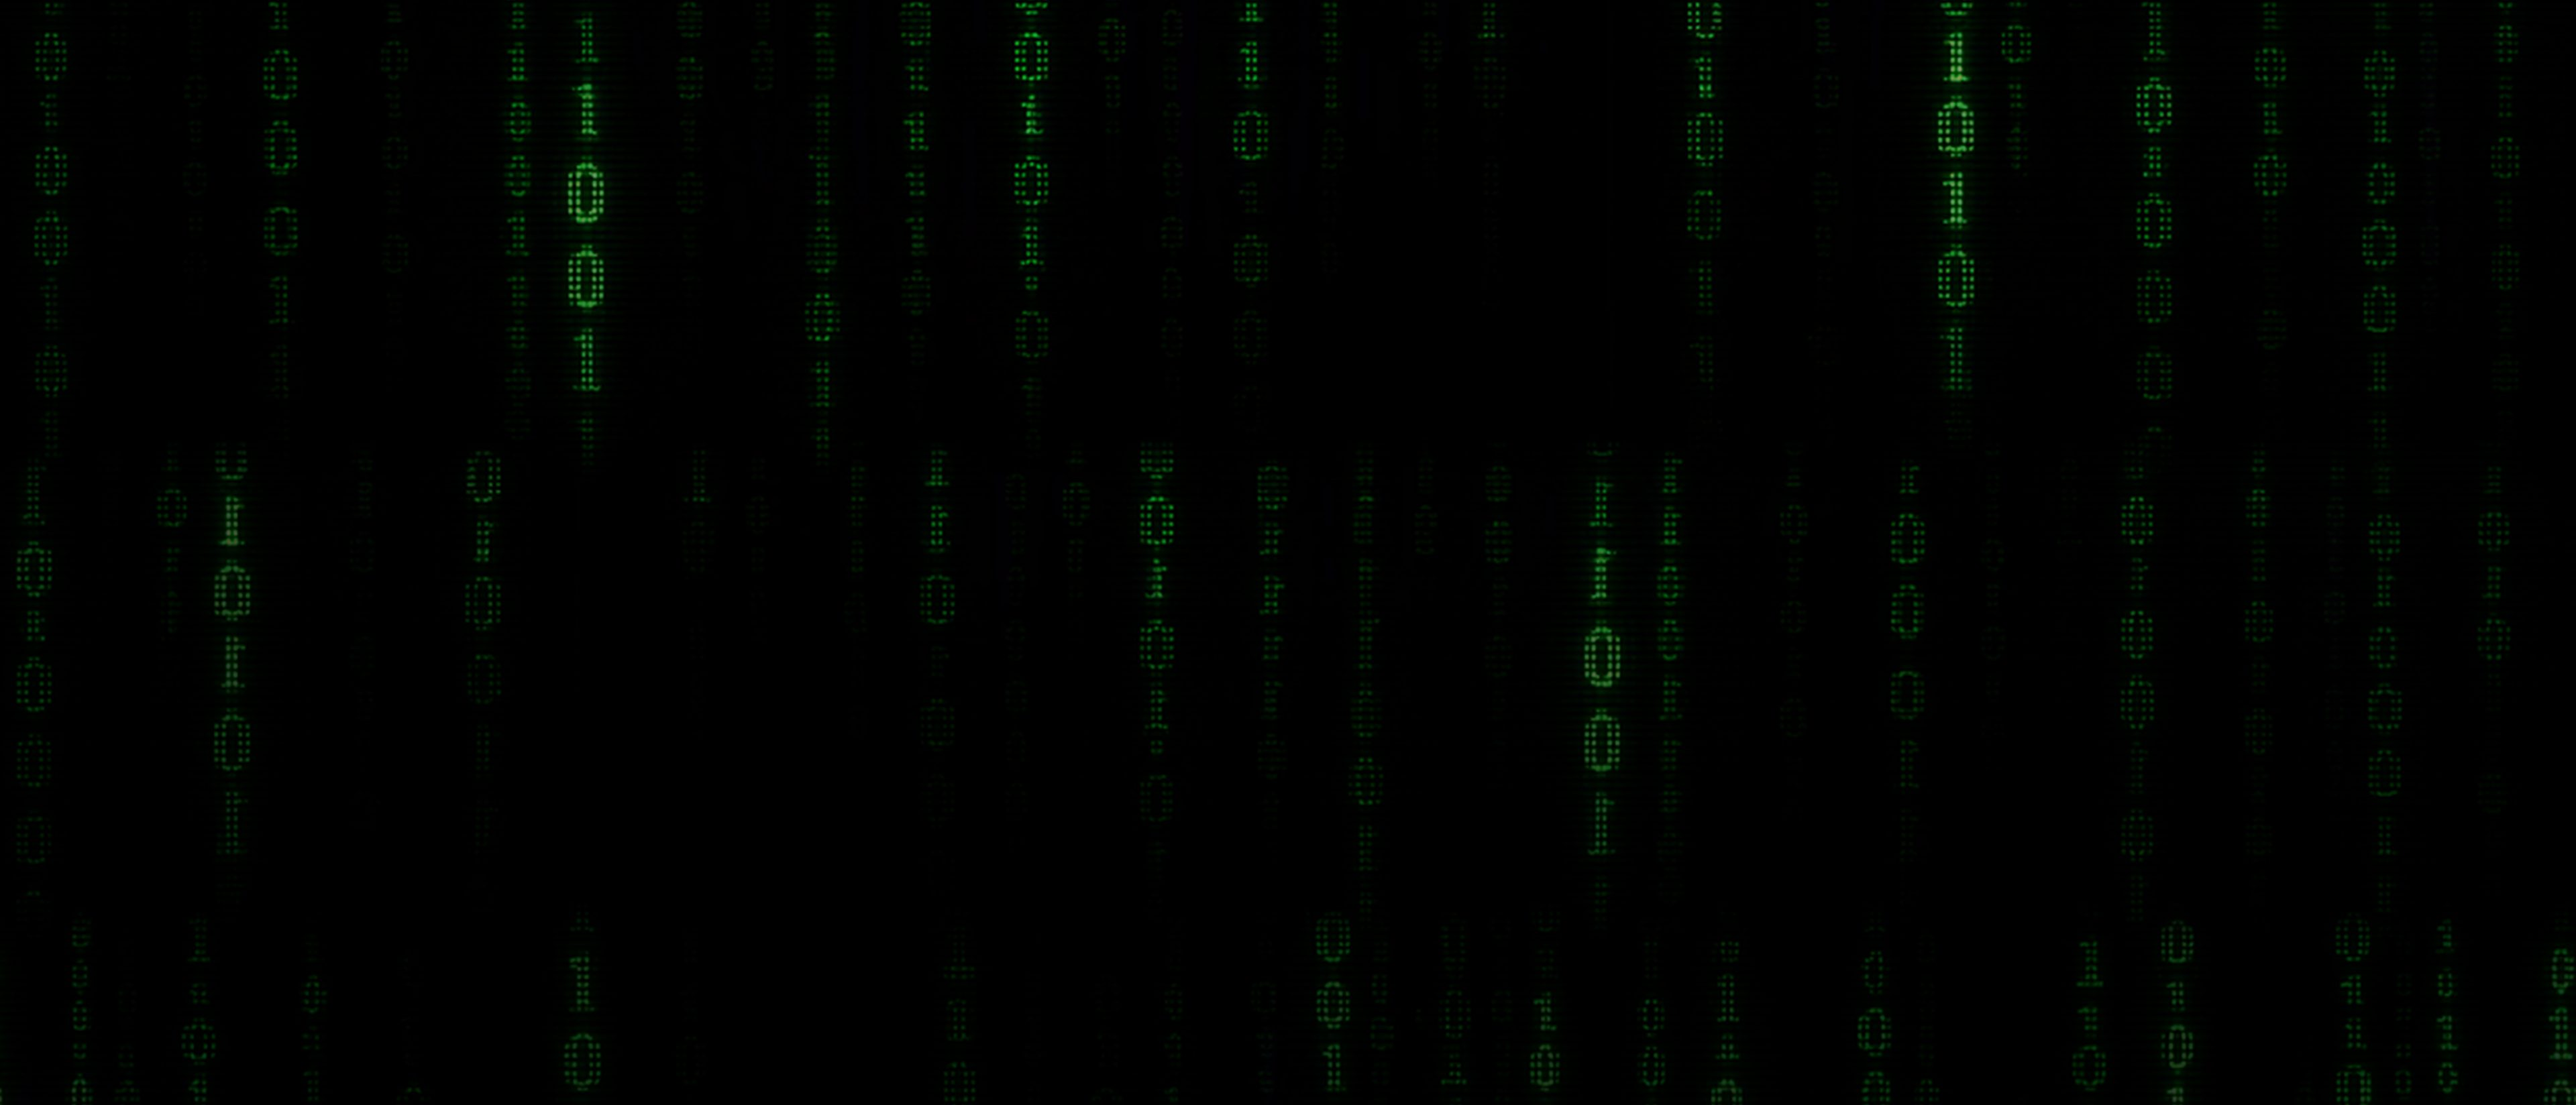
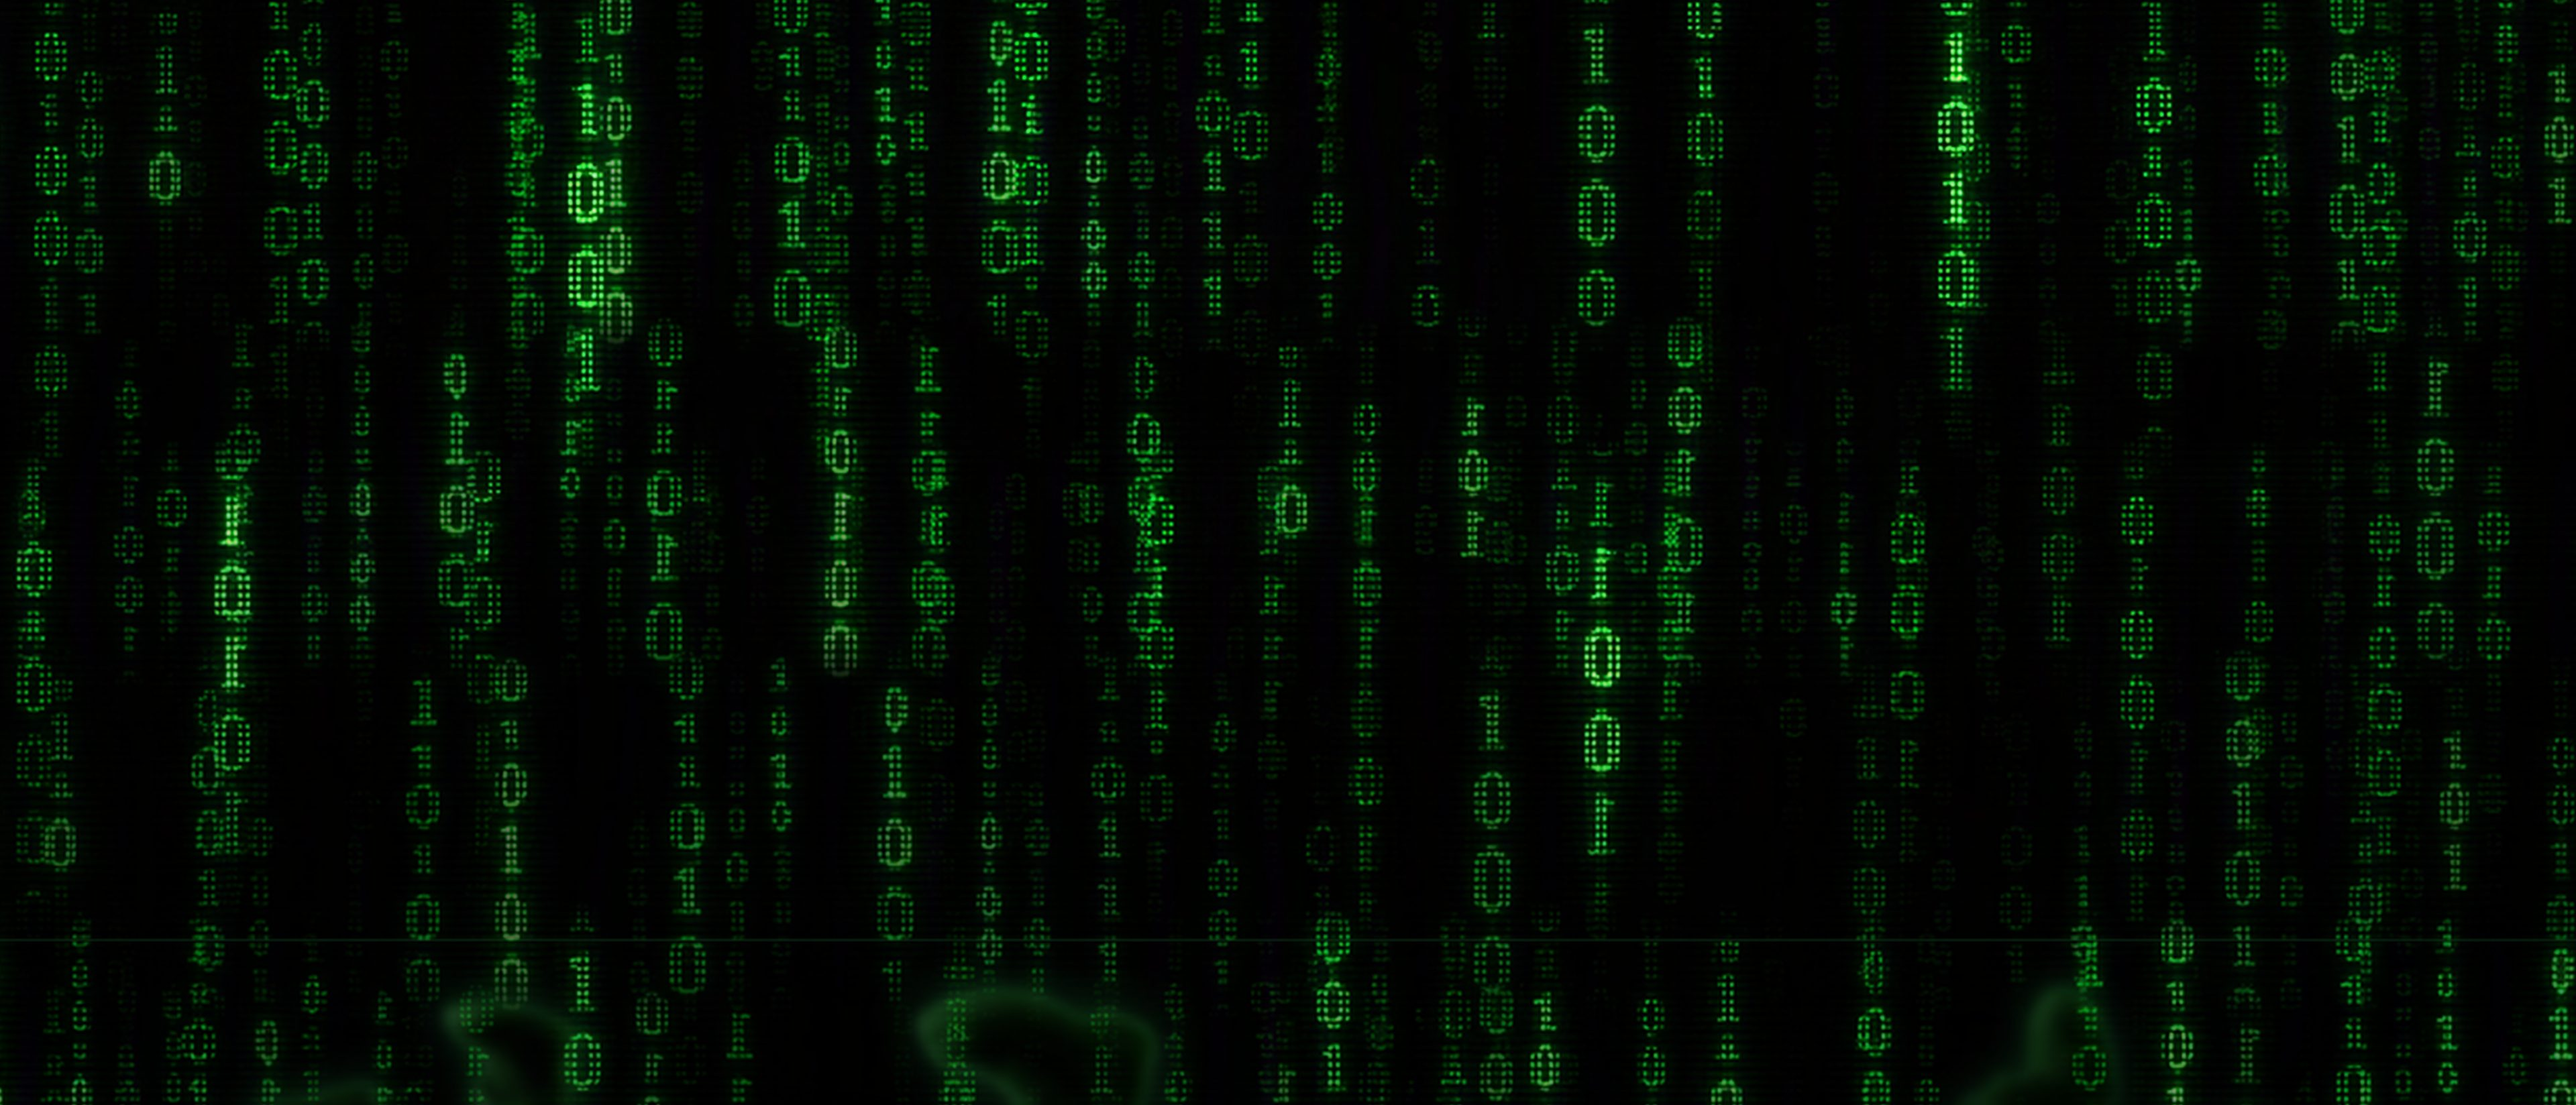
v4.1: BONDEE 场景视觉打磨，进一步贴合 ByteDance 画面
- 三个人物统一曝光（原右侧女生偏亮约 25%、中间男生偏暗），高光做 roll-off
- 代码雨改为双层错相叠加，画面密度与亮度向 ByteDance 靠拢（绿通道均值 24 → 30）
- 背景烘焙水面倒影 + 极淡水平线，人物不再悬空
- 三人横向铺开并略放大，去掉右侧与底部的大片死区
- 未选中人物改为压暗（brightness .52）而非降透明度，避免代码雨透过身体的幽灵感

diff --git a/gallery.js b/gallery.js
@@ -104,9 +104,9 @@
      cover:'assets/bondee/scene-cover.jpg',
      summary:'\u4e2a\u4eba\u7a7a\u95f4 / \u521b\u4f5c\u8005\u5e73\u53f0 / \u54c1\u724c\u89c6\u89c9 \u00b7 \u4e09\u4e2a\u9879\u76ee',
      subjects:[
-       {i:1,id:'bondee-1',title:'个人空间 · 形象资产体系',en:'PERSONAL SPACE / AVATAR SYSTEM',x:10.052,y:9.405,w:25.755,h:67.354,cx:22.92,ty:75.12},
-       {i:2,id:'bondee-2',title:'创作者平台 · UGC 内容供给',en:'CREATOR PLATFORM / UGC SUPPLY',x:34.036,y:3.216,w:31.927,h:81.857,cx:50,ty:82.71},
-       {i:3,id:'bondee-3',title:'产品视觉品牌塑造',en:'PRODUCT BRAND VISUAL',x:67.24,y:17.536,w:20.964,h:62.925,cx:77.73,ty:79.07}
+       {i:1,id:'bondee-1',title:'个人空间 · 形象资产体系',en:'PERSONAL SPACE / AVATAR SYSTEM',x:8.229,y:8.981,w:26.771,h:70.024,cx:21.61,ty:77.12},
+       {i:2,id:'bondee-2',title:'创作者平台 · UGC 内容供给',en:'CREATOR PLATFORM / UGC SUPPLY',x:33.646,y:3.034,w:33.255,h:85.255,cx:50.26,ty:85.62},
+       {i:3,id:'bondee-3',title:'产品视觉品牌塑造',en:'PRODUCT BRAND VISUAL',x:68.229,y:17.051,w:21.901,h:65.716,cx:79.17,ty:81.07}
      ]},
     {id:'bytedance',dir:'bytedance',file:'subject',cell:'11',reach:'2',
      label:'ByteDance \u516d\u4e2a\u9879\u76ee\u5165\u53e3',
@@ -254,6 +254,6 @@
   window.addEventListener('hashchange',route);
   route();
   const capsulesScript=document.createElement('script');capsulesScript.src='matrix-capsules.js?v=pill-float-1';document.body.append(capsulesScript);
-  const stageScript=document.createElement('script');stageScript.src='code-stage.js?v=stages-unified-1';document.body.append(stageScript);
+  const stageScript=document.createElement('script');stageScript.src='code-stage.js?v=stages-unified-2';document.body.append(stageScript);
   const transitScript=document.createElement('script');transitScript.src='matrix-transit.js?v=pill-float-1';document.body.append(transitScript);
 })();

diff --git a/matrix.css b/matrix.css
@@ -241,7 +241,7 @@ a:focus-visible{outline-color:#b5edc2}
 .bd-fig.on{z-index:3}
 .bd-fig.on img{filter:drop-shadow(0 0 8px rgba(74,255,132,.46)) drop-shadow(0 0 26px rgba(37,255,89,.26)) brightness(1.08)}
 .bd-fig:focus-visible img{filter:drop-shadow(0 0 9px rgba(74,255,132,.5)) drop-shadow(0 0 28px rgba(37,255,89,.3)) brightness(1.1)}
-.code-stage.busy .bd-fig:not(.on) img{opacity:.62;filter:brightness(.9) drop-shadow(0 0 3px rgba(37,255,89,.1))}
+.code-stage.busy .bd-fig:not(.on) img{opacity:.92;filter:brightness(.52) saturate(.8) drop-shadow(0 0 3px rgba(37,255,89,.08))}
 .code-stage.busy .bd-bg{opacity:.7}
 .bd-tag{position:absolute;left:var(--cx);top:var(--ty);z-index:5;width:max-content;max-width:20%;padding:7px 12px 8px;border-radius:2px;background:radial-gradient(74% 130% at 50% 50%,rgba(0,15,7,.88),rgba(0,10,4,0) 74%);opacity:0;transform:translate(-50%,6px);transition:opacity .28s,transform .28s;text-align:center}
 .bd-tag.on{opacity:1;transform:translate(-50%,0)}

diff --git a/index.html b/index.html
@@ -1066,7 +1066,7 @@ body.raw .lbx img.neg{filter:none}
 </style>
 <link rel="stylesheet" href="cover.css">
 <link rel="stylesheet" href="gallery.css">
-<link rel="stylesheet" href="matrix.css?v=stages-unified-1">
+<link rel="stylesheet" href="matrix.css?v=stages-unified-2">
 </head>
 <body class="at-entry">
 <div class="bg-tex"></div>
@@ -2288,6 +2288,6 @@ b.addEventListener('mouseenter',function(){pick(i);});b.addEventListener('click'
   document.addEventListener('click',function(){setTimeout(fit,700);});
 })();
 </script>
-<script src="gallery.js?v=stages-unified-1"></script>
+<script src="gallery.js?v=stages-unified-2"></script>
 </body>
 </html>
